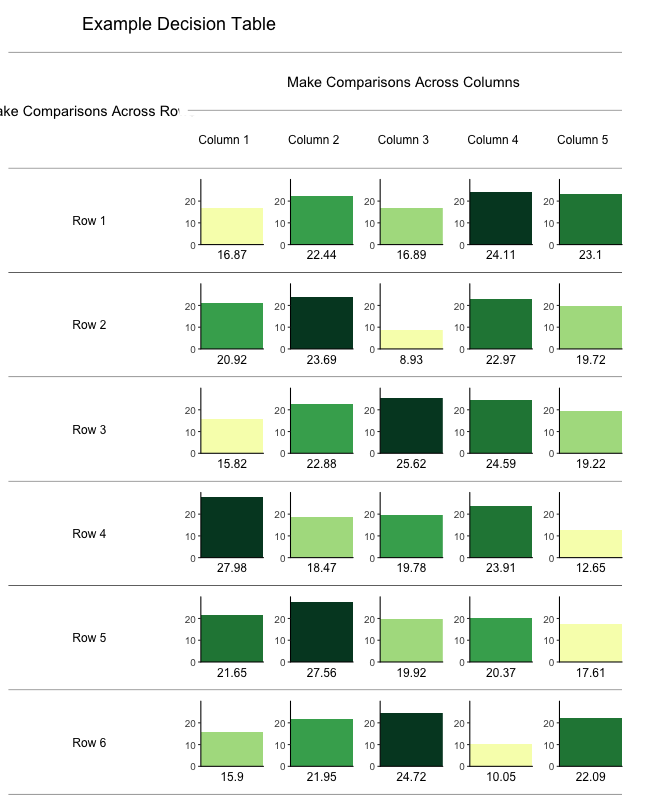
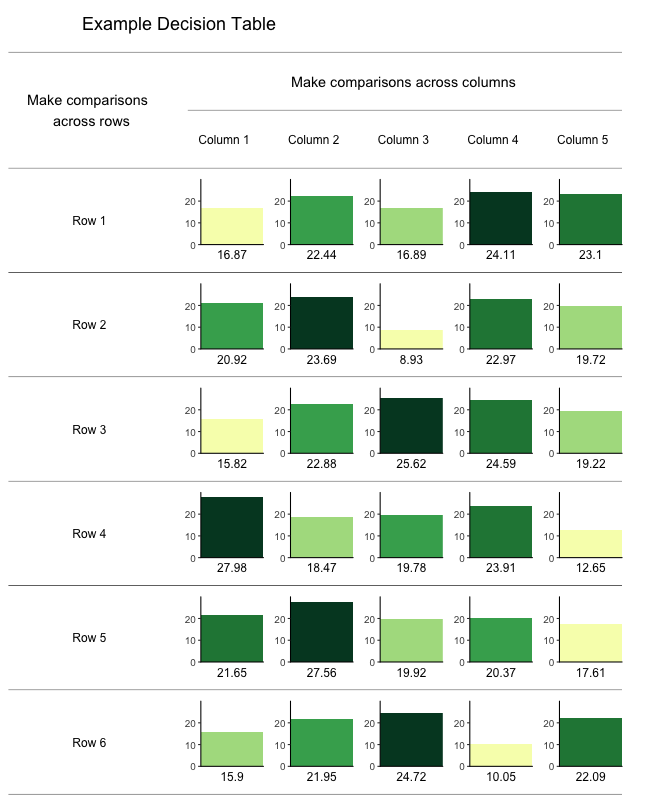
Update README file so rendered correctly

Changed region(s): [[0.4308, 0.0938, 0.8, 0.125], [0.0, 0.125, 0.2769, 0.1562]]

diff --git a/README.md b/README.md
@@ -1,0 +1,104 @@
+
+<!-- README.md is generated from README.Rmd. Please edit that file -->
+
+# decisiontable
+
+<!-- badges: start -->
+
+<!-- badges: end -->
+
+The goal of decisiontable is to combine text-based tables with graphical
+elements to produce flexible decision table visualizations that convey
+trade-offs and are easily reproduced. The package leverages bar plots,
+coloring options, layout choices, and optional summary information to
+highlight and display trade-offs.
+
+``` r
+library(decisiontable)
+
+# Example data
+set.seed(1)
+data_df <- matrix(c(abs(rnorm(30,20,sd=5))), ncol = 5, nrow = 6)
+colnames(data_df) <- c("Column 1", "Column 2", "Column 3", "Column 4", "Column 5")
+rownames(data_df) <- c("Row 1", "Row 2", "Row 3", "Row 4", "Row 5", "Row 6")
+
+makeDecisionTable(data = data_df,
+                  BestPerformanceVector = rep("High", nrow(data_df)),
+                  barColors = "defaultRankColor",
+                  visualRank = "TRUE",
+                  OutputFileName = "Readme_Fig1",
+                  GraphicTitle = "Example Decision Table",
+                  RowHeader = "Make comparisons \n across rows",
+                  ColumnHeader = "Make comparisons across columns",
+                  figureWidth = 650,
+                  figureHeight = 800)
+```
+
+![Decision table created using the dataframe
+option](/Users/ahart2/Research/decisiontable/Readme_Fig1.png)
+
+## Installation
+
+<!--You can install the released version of decisiontable from [CRAN](https://CRAN.R-project.org) with:
+
+``` r
+install.packages("decisiontable", build_vignettes = TRUE)
+```
+
+And the development version from [GitHub](https://github.com/) with:
+-->
+
+You can install the development version of decisiontable from
+[GitHub](https://github.com/) with:
+
+``` r
+# install.packages("devtools")
+devtools::install_github("ahart1/decisiontable")
+```
+
+## Usage
+
+The `makeDecisionTable()` function is the powerhouse of this package.
+With it bar plots are used to visually display more traditional text
+information, coloring can be altered, figure dimensions and layout can
+be customized, and summary statistics can be calculated and appended to
+the resulting decision table figure.
+
+Most simply, default function settings can be used to produce a decision
+table figure where bar chart height coresponds to the printed values
+along the x-axis of each plot and row and column labels are pulled from
+the input dataframe. Only the output file name, title, and row headers
+need be specified to produce an informative decision table. The figure
+will automatically be stored as a .png file in your current working
+directory.
+
+``` r
+library(decisiontable)
+
+# Here is an example dataframe
+set.seed(1)
+data_df <- matrix(c(abs(rnorm(30,20,sd=5))), ncol = 5, nrow = 6)
+colnames(data_df) <- c("Column 1", "Column 2", "Column 3", "Column 4", "Column 5")
+rownames(data_df) <- c("Row 1", "Row 2", "Row 3", "Row 4", "Row 5", "Row 6")
+
+
+# Produce a simple decision table figure using default formatting and minimal input
+makeDecisionTable(data = data_df,
+                  OutputFileName = "Readme_Fig2",
+                  GraphicTitle = "Decision table with \n default formatting",
+                  RowHeader = "Row header \n describes type \n of data in rows",
+                  ColumnHeader = "Column header describes type of data in columns")
+#> [1] "Empty Plot Icon"
+#> [1] "Empty Plot Icon"
+#> [1] "Empty Plot Icon"
+#> [1] "You are done =)"
+#> quartz_off_screen 
+#>                 2
+```
+
+![Decision table created using the dataframe
+option](/Users/ahart2/Research/decisiontable/Readme_Fig2.png)
+
+To get an introduction to other features of the package, read the
+[introductory
+vignette](https://github.com/ahart1/decisiontable/blob/master/vignettes/decisiontable.html).
